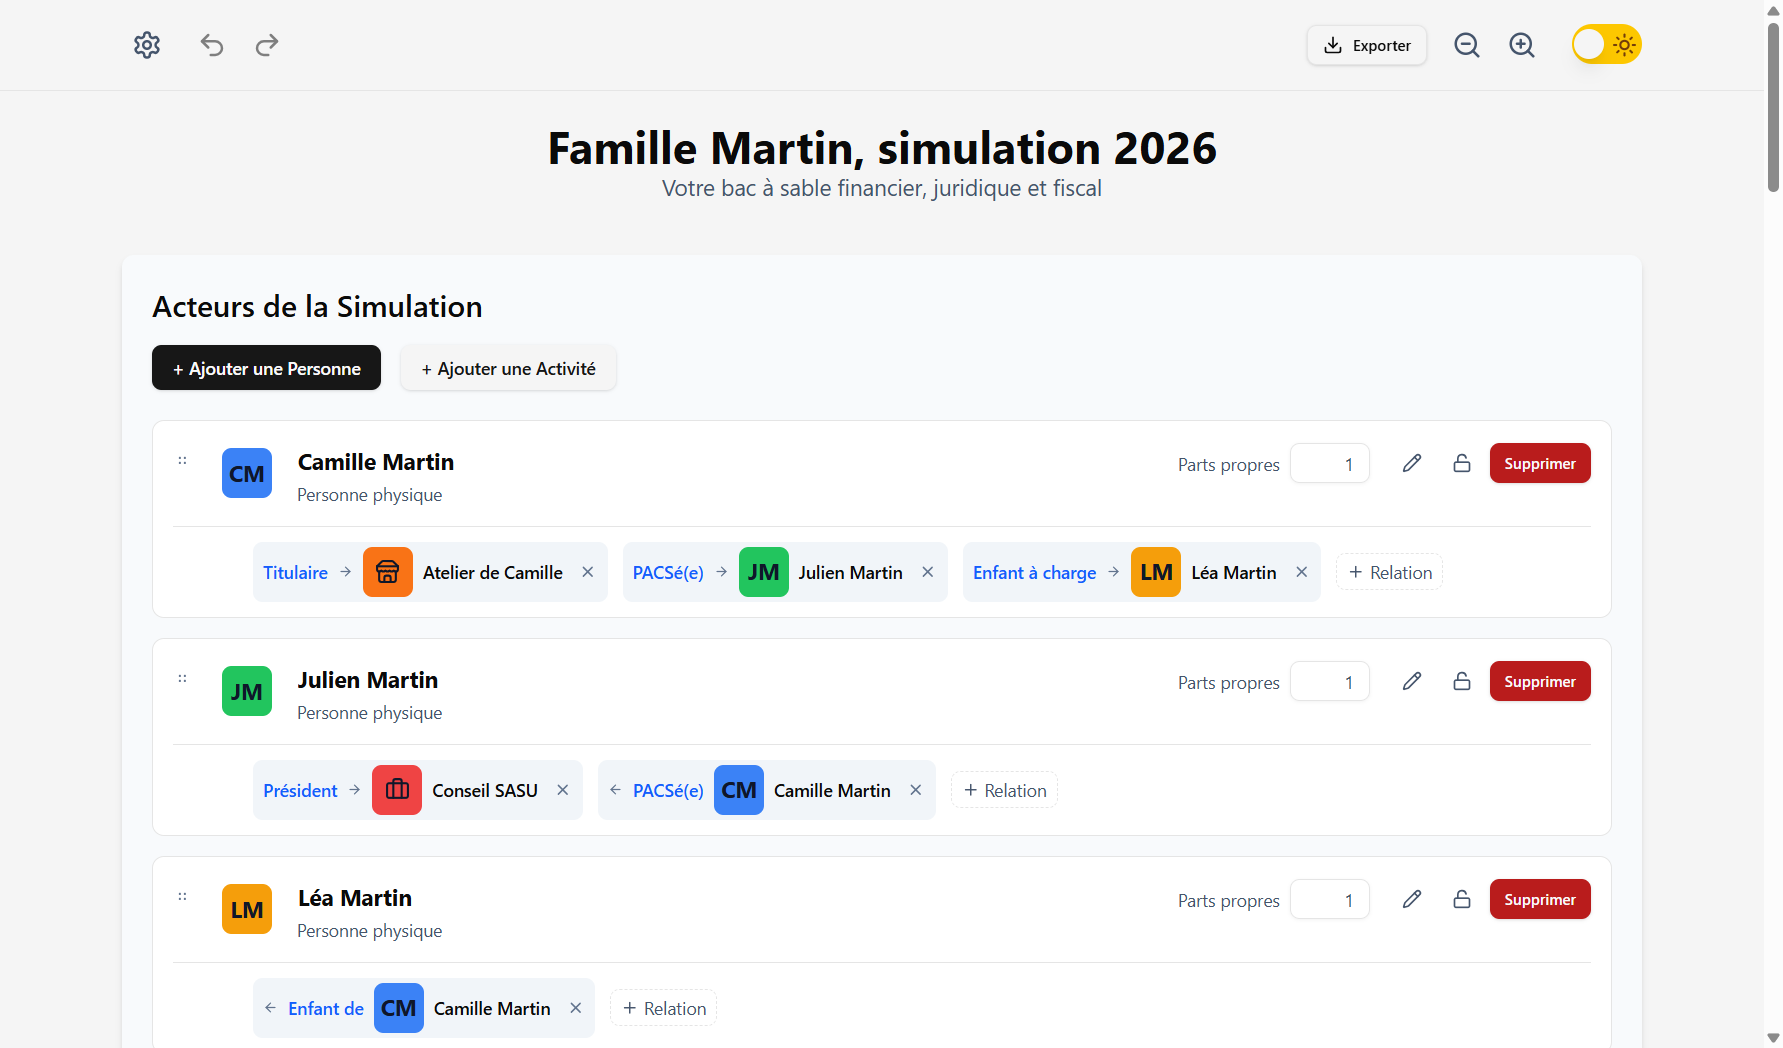
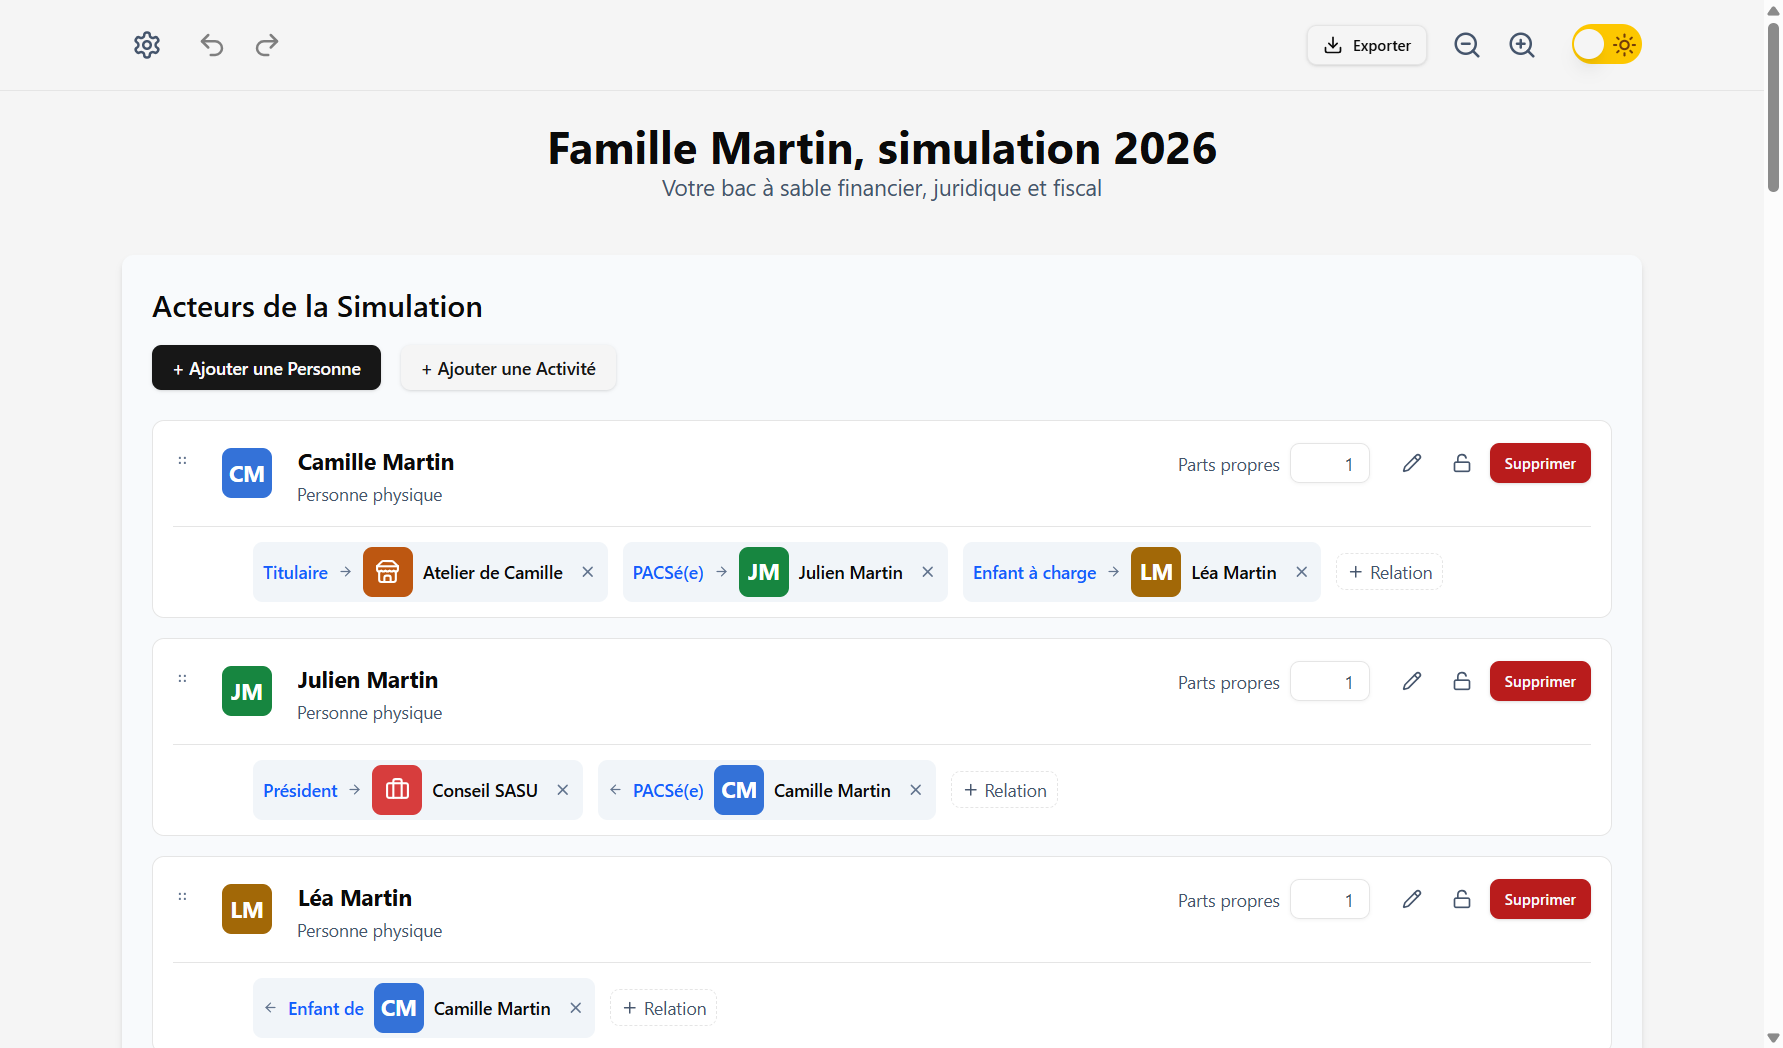
fix: Garder les initiales des pastilles en blanc, sur un fond assombri si besoin
Plutôt que d'écrire en noir sur les couleurs vives, le fond de la pastille est
assombri juste assez pour que le blanc atteigne 4,5:1 ; une couleur déjà assez
sombre reste inchangée. Captures regénérées.

diff --git a/src/lib/contraste.test.ts b/src/lib/contraste.test.ts
@@ -1,7 +1,7 @@
 // src/lib/contraste.test.ts
 
 import { describe, expect, it } from "vitest"
-import { couleurDeTexteSur, luminanceRelative, rapportDeContraste } from "./contraste"
+import { CONTRASTE_TEXTE, fondPourTexteBlanc, luminanceRelative, rapportDeContraste } from "./contraste"
 
 describe("luminanceRelative", () => {
   it("va de 0 pour le noir à 1 pour le blanc, en notation courte ou longue", () => {
@@ -32,19 +32,34 @@ describe("rapportDeContraste", () => {
   })
 })
 
-describe("couleurDeTexteSur", () => {
-  it("écrit en blanc sur un fond sombre", () => {
-    expect(couleurDeTexteSur("#1e3a8a")).toBe("#ffffff")
-    expect(couleurDeTexteSur("#b91c1c")).toBe("#ffffff")
+describe("fondPourTexteBlanc", () => {
+  it("garde une couleur assez sombre pour du texte blanc", () => {
+    expect(fondPourTexteBlanc("#1e3a8a")).toBe("#1e3a8a")
+    expect(fondPourTexteBlanc("#b91c1c")).toBe("#b91c1c")
   })
 
-  it("écrit en sombre sur un fond clair, où le blanc n'atteint pas 4,5:1", () => {
-    expect(couleurDeTexteSur("#f59e0b")).toBe("#0f172a")
-    expect(couleurDeTexteSur("#22c55e")).toBe("#0f172a")
-    expect(couleurDeTexteSur("#3b82f6")).toBe("#0f172a")
+  it("assombrit une couleur vive juste assez pour atteindre 4,5:1 avec le blanc", () => {
+    for (const couleur of ["#3b82f6", "#22c55e", "#f97316", "#f59e0b", "#ef4444", "#ffff00"]) {
+      const fond = fondPourTexteBlanc(couleur)
+      expect(fond).not.toBe(couleur)
+      expect(rapportDeContraste(fond, "#ffffff")).toBeGreaterThanOrEqual(CONTRASTE_TEXTE)
+    }
   })
 
-  it("garde le blanc si le fond est illisible", () => {
-    expect(couleurDeTexteSur("rouge")).toBe("#ffffff")
+  it("garde la teinte : seule la luminosité baisse", () => {
+    // Bleu #3b82f6 (59, 130, 246) : les trois composantes baissent dans la même proportion.
+    const [r, g, b] = [1, 3, 5].map(i => parseInt(fondPourTexteBlanc("#3b82f6").slice(i, i + 2), 16))
+    expect(r / b).toBeCloseTo(59 / 246, 1)
+    expect(g / b).toBeCloseTo(130 / 246, 1)
+  })
+
+  it("n'assombrit pas plus que nécessaire", () => {
+    const fond = fondPourTexteBlanc("#3b82f6")
+    expect(rapportDeContraste(fond, "#ffffff")).toBeLessThan(CONTRASTE_TEXTE + 0.5)
+  })
+
+  it("accepte un autre seuil, et laisse une couleur illisible telle quelle", () => {
+    expect(fondPourTexteBlanc("#3b82f6", 3)).toBe("#3b82f6")
+    expect(fondPourTexteBlanc("rouge")).toBe("rouge")
   })
 })

diff --git a/src/lib/contraste.ts b/src/lib/contraste.ts
@@ -1,9 +1,10 @@
 // src/lib/contraste.ts
-// Contraste entre deux couleurs, selon la formule des WCAG : sert à écrire lisiblement sur une couleur choisie
-// par l'utilisateur (pastille d'une entité).
+// Contraste entre deux couleurs, selon la formule des WCAG : sert à écrire lisiblement en blanc sur une couleur
+// choisie par l'utilisateur (pastille d'une entité).
 
-const TEXTE_CLAIR = "#ffffff"
-const TEXTE_SOMBRE = "#0f172a"
+const BLANC = "#ffffff"
+/** Contraste minimal d'un texte de taille normale (WCAG 1.4.3, niveau AA). */
+export const CONTRASTE_TEXTE = 4.5
 
 /** Composantes rouge, vert, bleu (0 à 255) d'une couleur « #rgb » ou « #rrggbb » ; `null` si elle n'est pas lisible. */
 function composantes(couleur: string): [number, number, number] | null {
@@ -32,10 +33,19 @@ export function rapportDeContraste(a: string, b: string): number | null {
   return (Math.max(la, lb) + 0.05) / (Math.min(la, lb) + 0.05)
 }
 
-/** Couleur de texte, blanc ou presque noir, la plus contrastée sur ce fond. Blanc si le fond n'est pas lisible. */
-export function couleurDeTexteSur(fond: string): string {
-  const clair = rapportDeContraste(fond, TEXTE_CLAIR)
-  const sombre = rapportDeContraste(fond, TEXTE_SOMBRE)
-  if (clair === null || sombre === null) return TEXTE_CLAIR
-  return sombre > clair ? TEXTE_SOMBRE : TEXTE_CLAIR
+const hex = (rgb: number[]) => `#${rgb.map(c => Math.round(c).toString(16).padStart(2, "0")).join("")}`
+
+/**
+ * Fond sur lequel du texte blanc atteint le contraste demandé : la couleur elle-même si elle est assez sombre,
+ * sinon la même teinte, assombrie juste ce qu'il faut (mélange progressif avec du noir, par pas de 2 %).
+ * Une couleur illisible est renvoyée telle quelle.
+ */
+export function fondPourTexteBlanc(couleur: string, contrasteMinimal = CONTRASTE_TEXTE): string {
+  const rgb = composantes(couleur)
+  if (!rgb) return couleur
+  for (let part = 0; part <= 1; part += 0.02) {
+    const fond = hex(rgb.map(c => c * (1 - part)))
+    if (rapportDeContraste(fond, BLANC)! >= contrasteMinimal) return part === 0 ? couleur : fond
+  }
+  return "#000000"
 }

diff --git a/src/ui/components/AvatarDisplay.tsx b/src/ui/components/AvatarDisplay.tsx
@@ -1,7 +1,7 @@
 // src/ui/components/AvatarDisplay.tsx
 import { Briefcase } from "lucide-react" // Gardez un import par défaut
 import { cn } from "@/lib/utils"
-import { couleurDeTexteSur } from "@/lib/contraste"
+import { fondPourTexteBlanc } from "@/lib/contraste"
 import type { Avatar } from "@/types"
 // 1. Importez les constantes depuis leur nouveau fichier
 import { availableIcons, availableIconsSmall } from "@/lib/avatar-constants"
@@ -26,7 +26,7 @@ export function AvatarDisplay({ avatar, size = "md" }: AvatarDisplayProps) {
   const icons = size === "sm" ? availableIconsSmall : availableIcons
 
   return (
-    <div className={cn("rounded-md flex items-center justify-center font-bold shrink-0", sizeClasses[size])} style={{ backgroundColor: avatar.color, color: couleurDeTexteSur(avatar.color) }} aria-hidden="true">
+    <div className={cn("rounded-md flex items-center justify-center font-bold shrink-0", sizeClasses[size])} style={{ backgroundColor: fondPourTexteBlanc(avatar.color), color: "#ffffff" }} aria-hidden="true">
       {isIcon ? icons[avatar.value] || <Briefcase /> : avatar.value}
     </div>
   )
